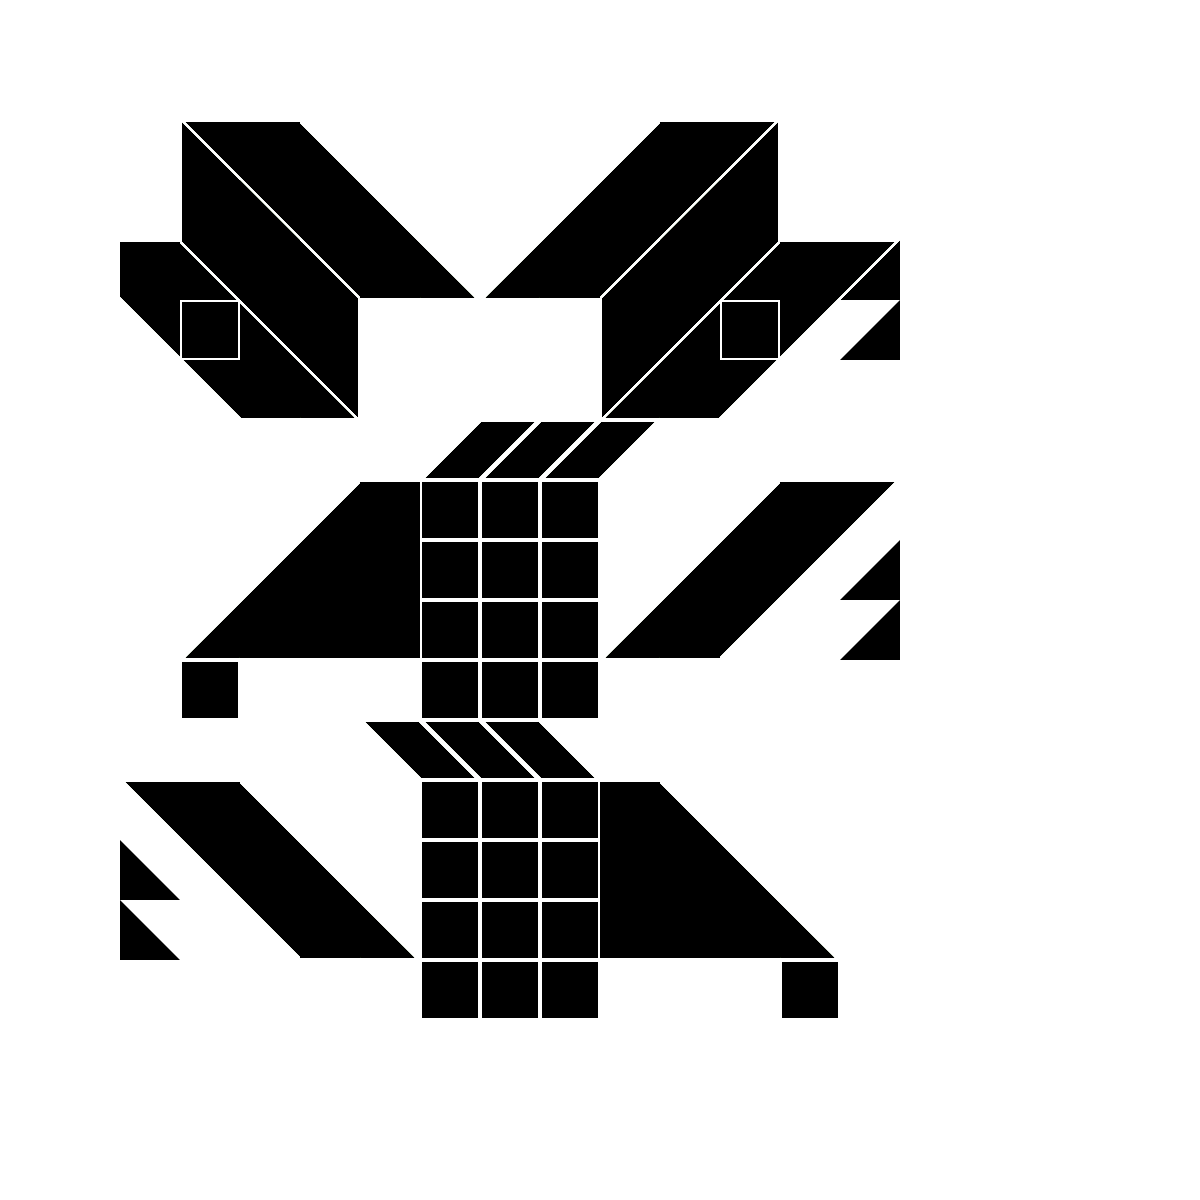
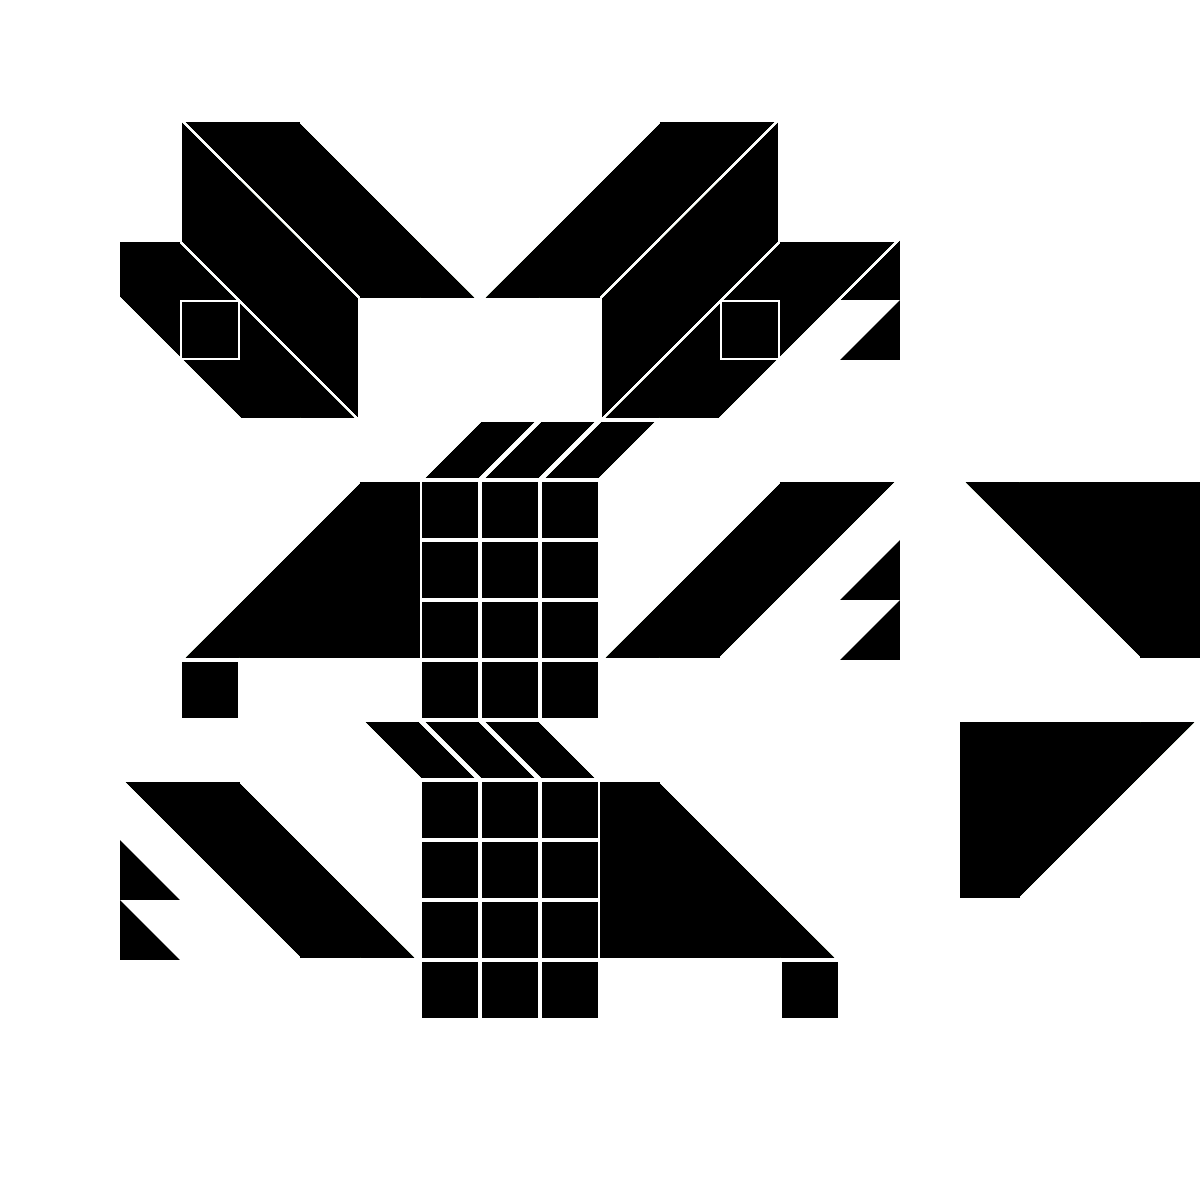
Tileset fix, death bug fix

Changed region(s): [[0.8017, 0.5858, 1.0, 0.7708], [0.8017, 0.4008, 1.0, 0.555]]

diff --git a/RoboFight/RoboFight/AudioController.cs b/RoboFight/RoboFight/AudioController.cs
@@ -1,0 +1,168 @@
+using System;
+using System.Collections.Generic;
+using System.Text;
+using Microsoft.Xna.Framework;
+using Microsoft.Xna.Framework.Content;
+using Microsoft.Xna.Framework.Graphics;
+using Microsoft.Xna.Framework.Input;
+using System.IO;
+using System.Diagnostics;
+using Microsoft.Xna.Framework.Audio;
+using Microsoft.Xna.Framework.Media;
+
+
+namespace RoboFight
+{
+    public static class AudioController
+    {
+        public static float sfxvolume = 1f;
+        public static float musicvolume = 0.5f;
+
+        public static Random randomNumber = new Random();
+
+        public static Dictionary<string, SoundEffect> effects;
+
+        public static Dictionary<string, SoundEffectInstance> songs;
+
+        static string playingTrack = "";
+        static bool isPlaying;
+
+        public static string currentlyPlaying = "";
+
+        public static int currentTrack = 0;
+
+        public static void LoadContent(ContentManager content)
+        {
+            effects = new Dictionary<string, SoundEffect>();
+
+            //effects.Add("teleport_in", content.Load<SoundEffect>("sfx/teleport_in"));
+            //effects.Add("teleport_out", content.Load<SoundEffect>("sfx/teleport_out"));
+            //effects.Add("fstep-grass", content.Load<SoundEffect>("sfx/fstep-grass"));
+            //effects.Add("fstep-metal", content.Load<SoundEffect>("sfx/fstep-metal"));
+            //effects.Add("fstep-wood", content.Load<SoundEffect>("sfx/fstep-wood"));
+            //effects.Add("valve", content.Load<SoundEffect>("sfx/valve"));
+            //effects.Add("water", content.Load<SoundEffect>("sfx/water"));
+            //effects.Add("splash", content.Load<SoundEffect>("sfx/splash"));
+            
+
+
+
+
+            songs = new Dictionary<string, SoundEffectInstance>();
+            //songs.Add("0", content.Load<SoundEffect>("music/1").CreateInstance());
+            //songs.Add("1", content.Load<SoundEffect>("music/2").CreateInstance());
+            //songs.Add("2", content.Load<SoundEffect>("music/3").CreateInstance());
+            //songs.Add("3", content.Load<SoundEffect>("music/4").CreateInstance());
+            //songs.Add("4", content.Load<SoundEffect>("music/5").CreateInstance());
+        }
+
+        public static void LoadMusic(string piece, ContentManager content)
+        {
+            //if (currentlyPlaying.ToLower() == piece.ToLower()) return;
+            //currentlyPlaying = piece;
+
+            //if (!MediaPlayer.GameHasControl) return;
+
+            //if (MediaPlayer.State != MediaState.Stopped) MediaPlayer.Stop();
+            ////if (musicInstance != null)
+            ////{
+            ////    musicInstance.Dispose();
+            ////}
+
+            //musicInstance = content.Load<Song>("audio/music/" + piece);
+            //MediaPlayer.IsRepeating = true;
+            //// MediaPlayer.Volume = musicvolume;
+            //MediaPlayer.Play(musicInstance);
+
+            //if (!OptionsMenuScreen.music) MediaPlayer.Pause();
+        }
+
+        public static void PlayMusic()
+        {
+            PlayMusic(currentTrack.ToString());
+            currentTrack++;
+            if (currentTrack == 5) currentTrack = 0;
+        }
+
+        public static void PlayMusic(string track)
+        {
+            playingTrack = track;
+            isPlaying = true;
+            songs[track].IsLooped = true;
+            songs[track].Volume = 0f;
+            songs[track].Play();
+        }
+
+        public static void StopMusic()
+        {
+
+            isPlaying = false;
+        }
+
+        public static void ToggleMusic()
+        {
+
+            //if (OptionsMenuScreen.music)
+            //{
+            //    MediaPlayer.Resume();
+            //}
+            //else
+            //    MediaPlayer.Pause();
+        }
+
+        public static void PlaySFX(string name)
+        {
+            //if (OptionsMenuScreen.sfx)
+            effects[name].Play(sfxvolume, 0f, 0f);
+        }
+        public static void PlaySFX(string name, float pitch)
+        {
+            //if (OptionsMenuScreen.sfx)
+            effects[name].Play(sfxvolume, pitch, 0f);
+        }
+        public static void PlaySFX(string name, float volume, float pitch, float pan)
+        {
+            // if (OptionsMenuScreen.sfx)
+            if (pan < -1f || pan > 1f) return;
+            volume = MathHelper.Clamp(volume, 0f, 1f);
+            effects[name].Play(volume * sfxvolume, pitch, pan);
+        }
+        public static void PlaySFX(string name, float minpitch, float maxpitch)
+        {
+            // if (OptionsMenuScreen.sfx)
+            effects[name].Play(sfxvolume, minpitch + ((float)randomNumber.NextDouble() * (maxpitch - minpitch)), 0f);
+        }
+
+        internal static void PlaySFX(string name, float volume, float minpitch, float maxpitch, Vector2 Position)
+        {
+            //Vector2 screenPos = Vector2.Transform(Position, GameManager.Camera.CameraMatrix);
+            //float pan = MathHelper.Clamp((screenPos.X - (GameManager.Camera.Width / 2)) / (GameManager.Camera.Width / 2), -1f, 1f);
+            //effects[name].Play(volume * sfxvolume, minpitch + ((float)randomNumber.NextDouble() * (maxpitch - minpitch)), pan);
+        }
+
+
+        public static void Update(GameTime gameTime)
+        {
+
+            if (playingTrack == "") return;
+
+            if (isPlaying)
+                if (songs[playingTrack].Volume < musicvolume) songs[playingTrack].Volume += 0.01f;
+
+            if (!isPlaying)
+                if (songs[playingTrack].Volume > 0) songs[playingTrack].Volume -= 0.01f;
+                else songs[playingTrack].Stop();
+
+            // if (MediaPlayer.Volume > musicvolume) MediaPlayer.Volume = musicvolume;
+        }
+
+        public static void Unload()
+        {
+
+        }
+
+
+
+
+    }
+}

diff --git a/RoboFight/RoboFight/Game.cs b/RoboFight/RoboFight/Game.cs
@@ -92,6 +92,8 @@ namespace RoboFight
             // Create a new SpriteBatch, which can be used to draw textures.
             spriteBatch = new SpriteBatch(GraphicsDevice);
 
+            AudioController.LoadContent(Content);
+
             gameMap = Content.Load<Map>("testmap");
 
             enemyManager.LoadContent(Content, GraphicsDevice);

diff --git a/RoboFight/RoboFight/Robot.cs b/RoboFight/RoboFight/Robot.cs
@@ -501,7 +501,7 @@ namespace RoboFight
                 pushingUp = false;
             }
 
-            if (Health <= 1f)
+            if (Health <= 1f ||!Active)
             {
                 Active = false;
 
